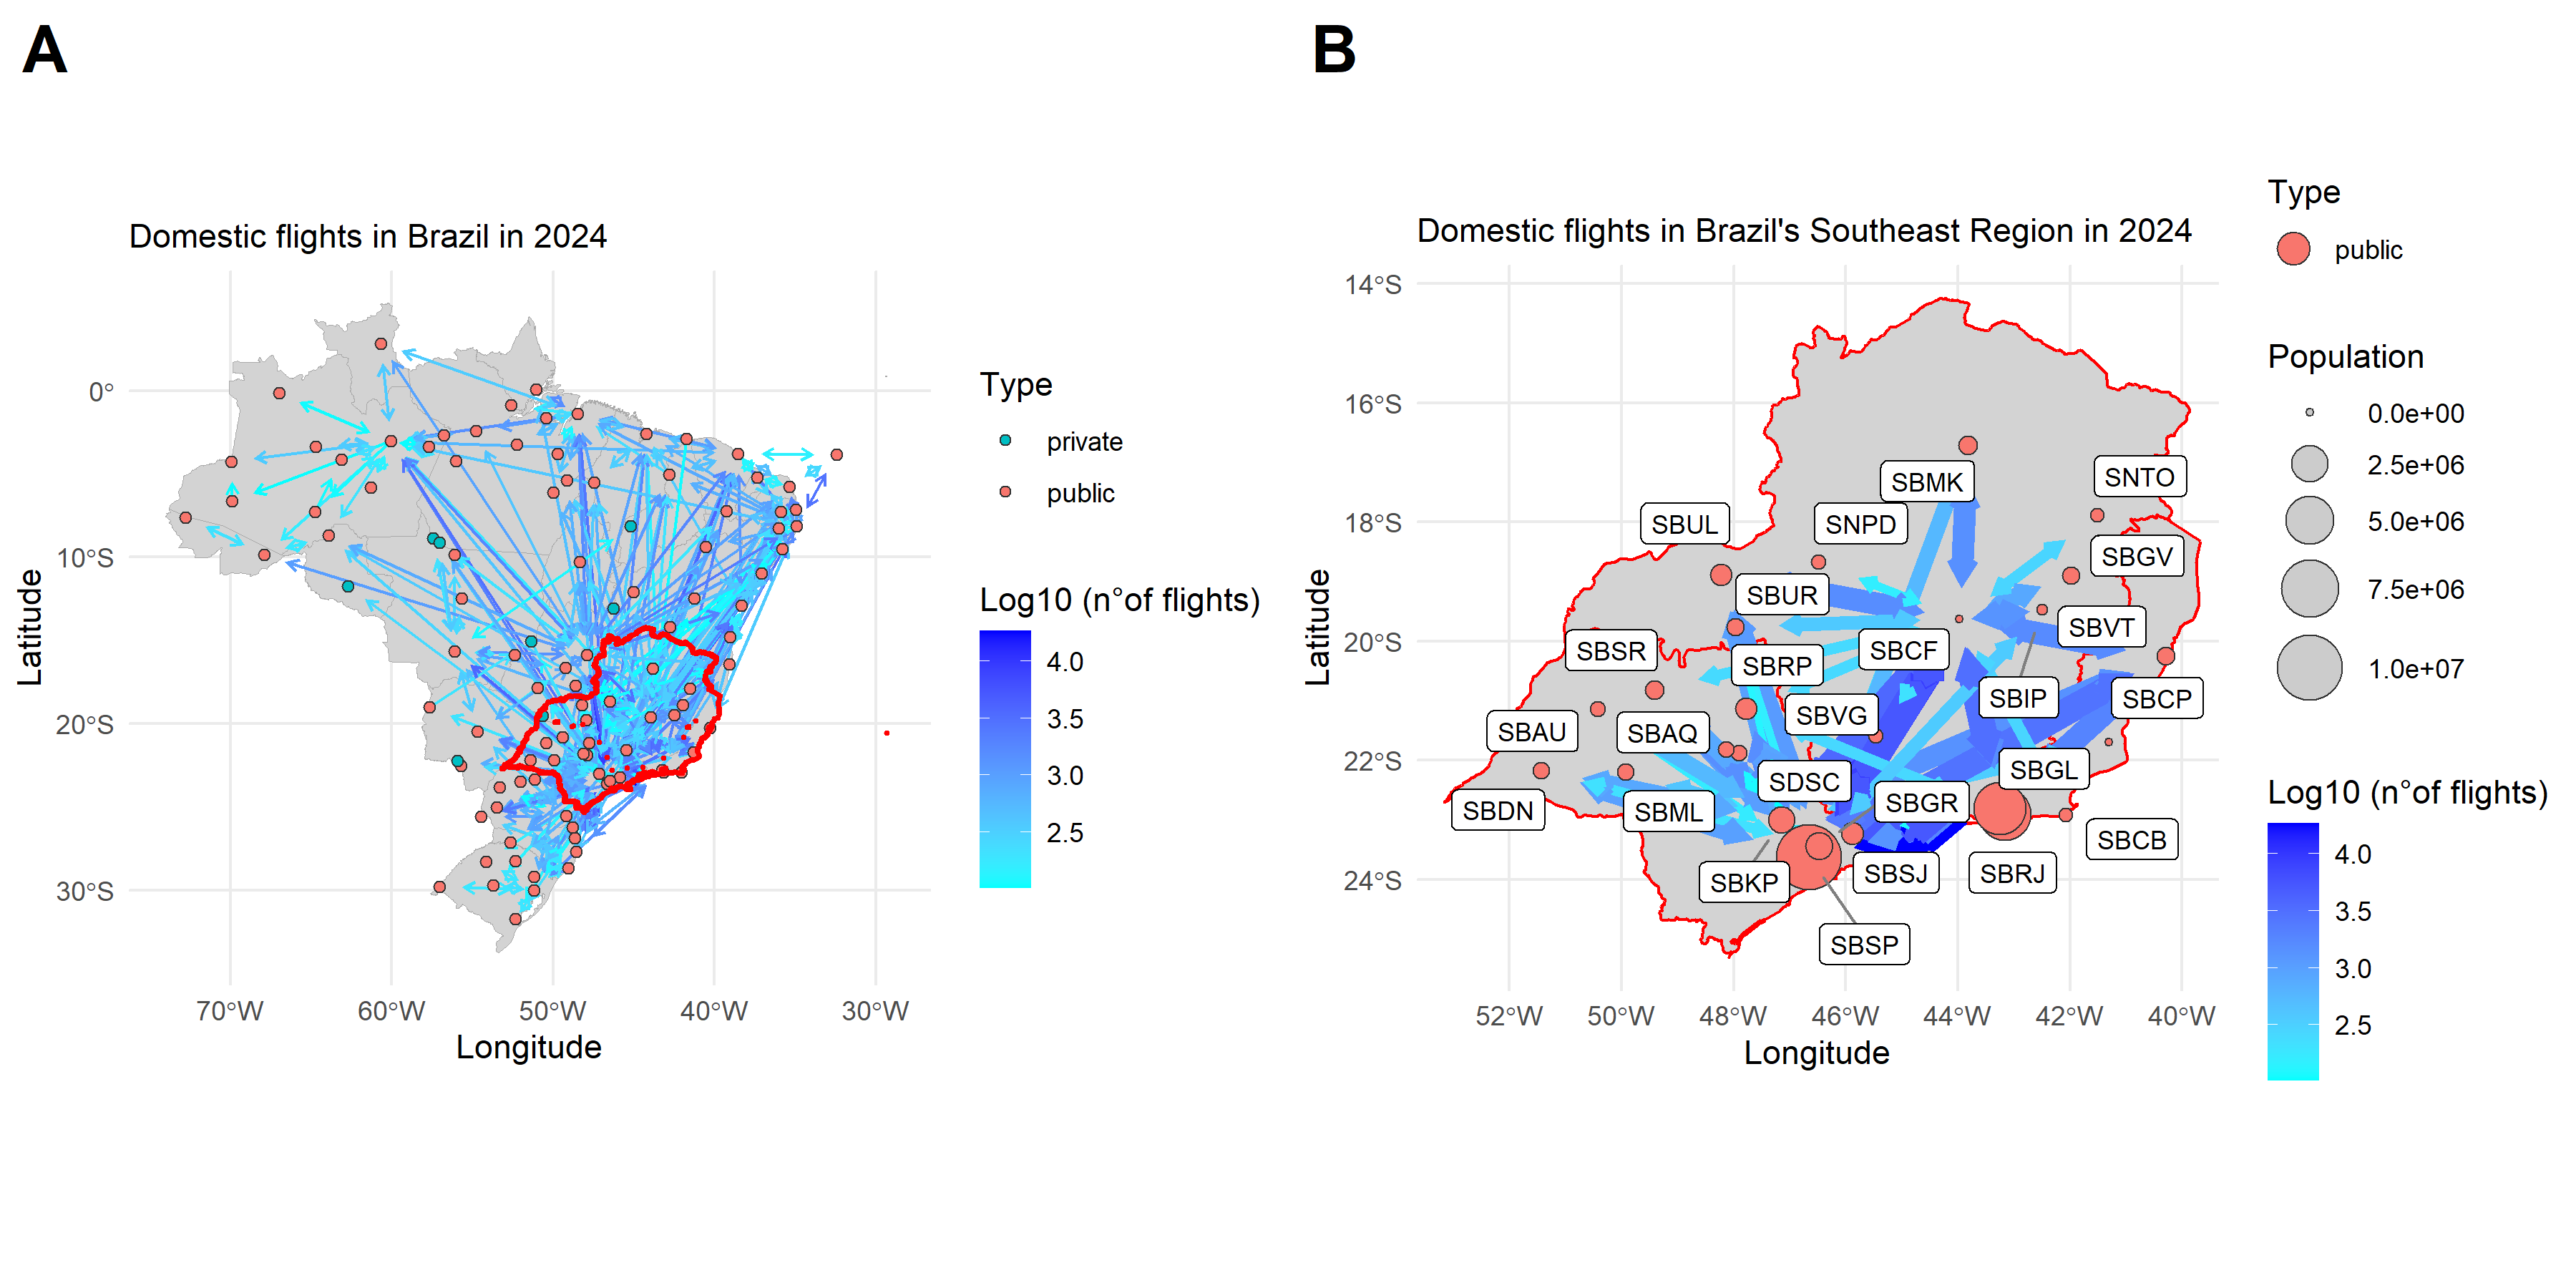
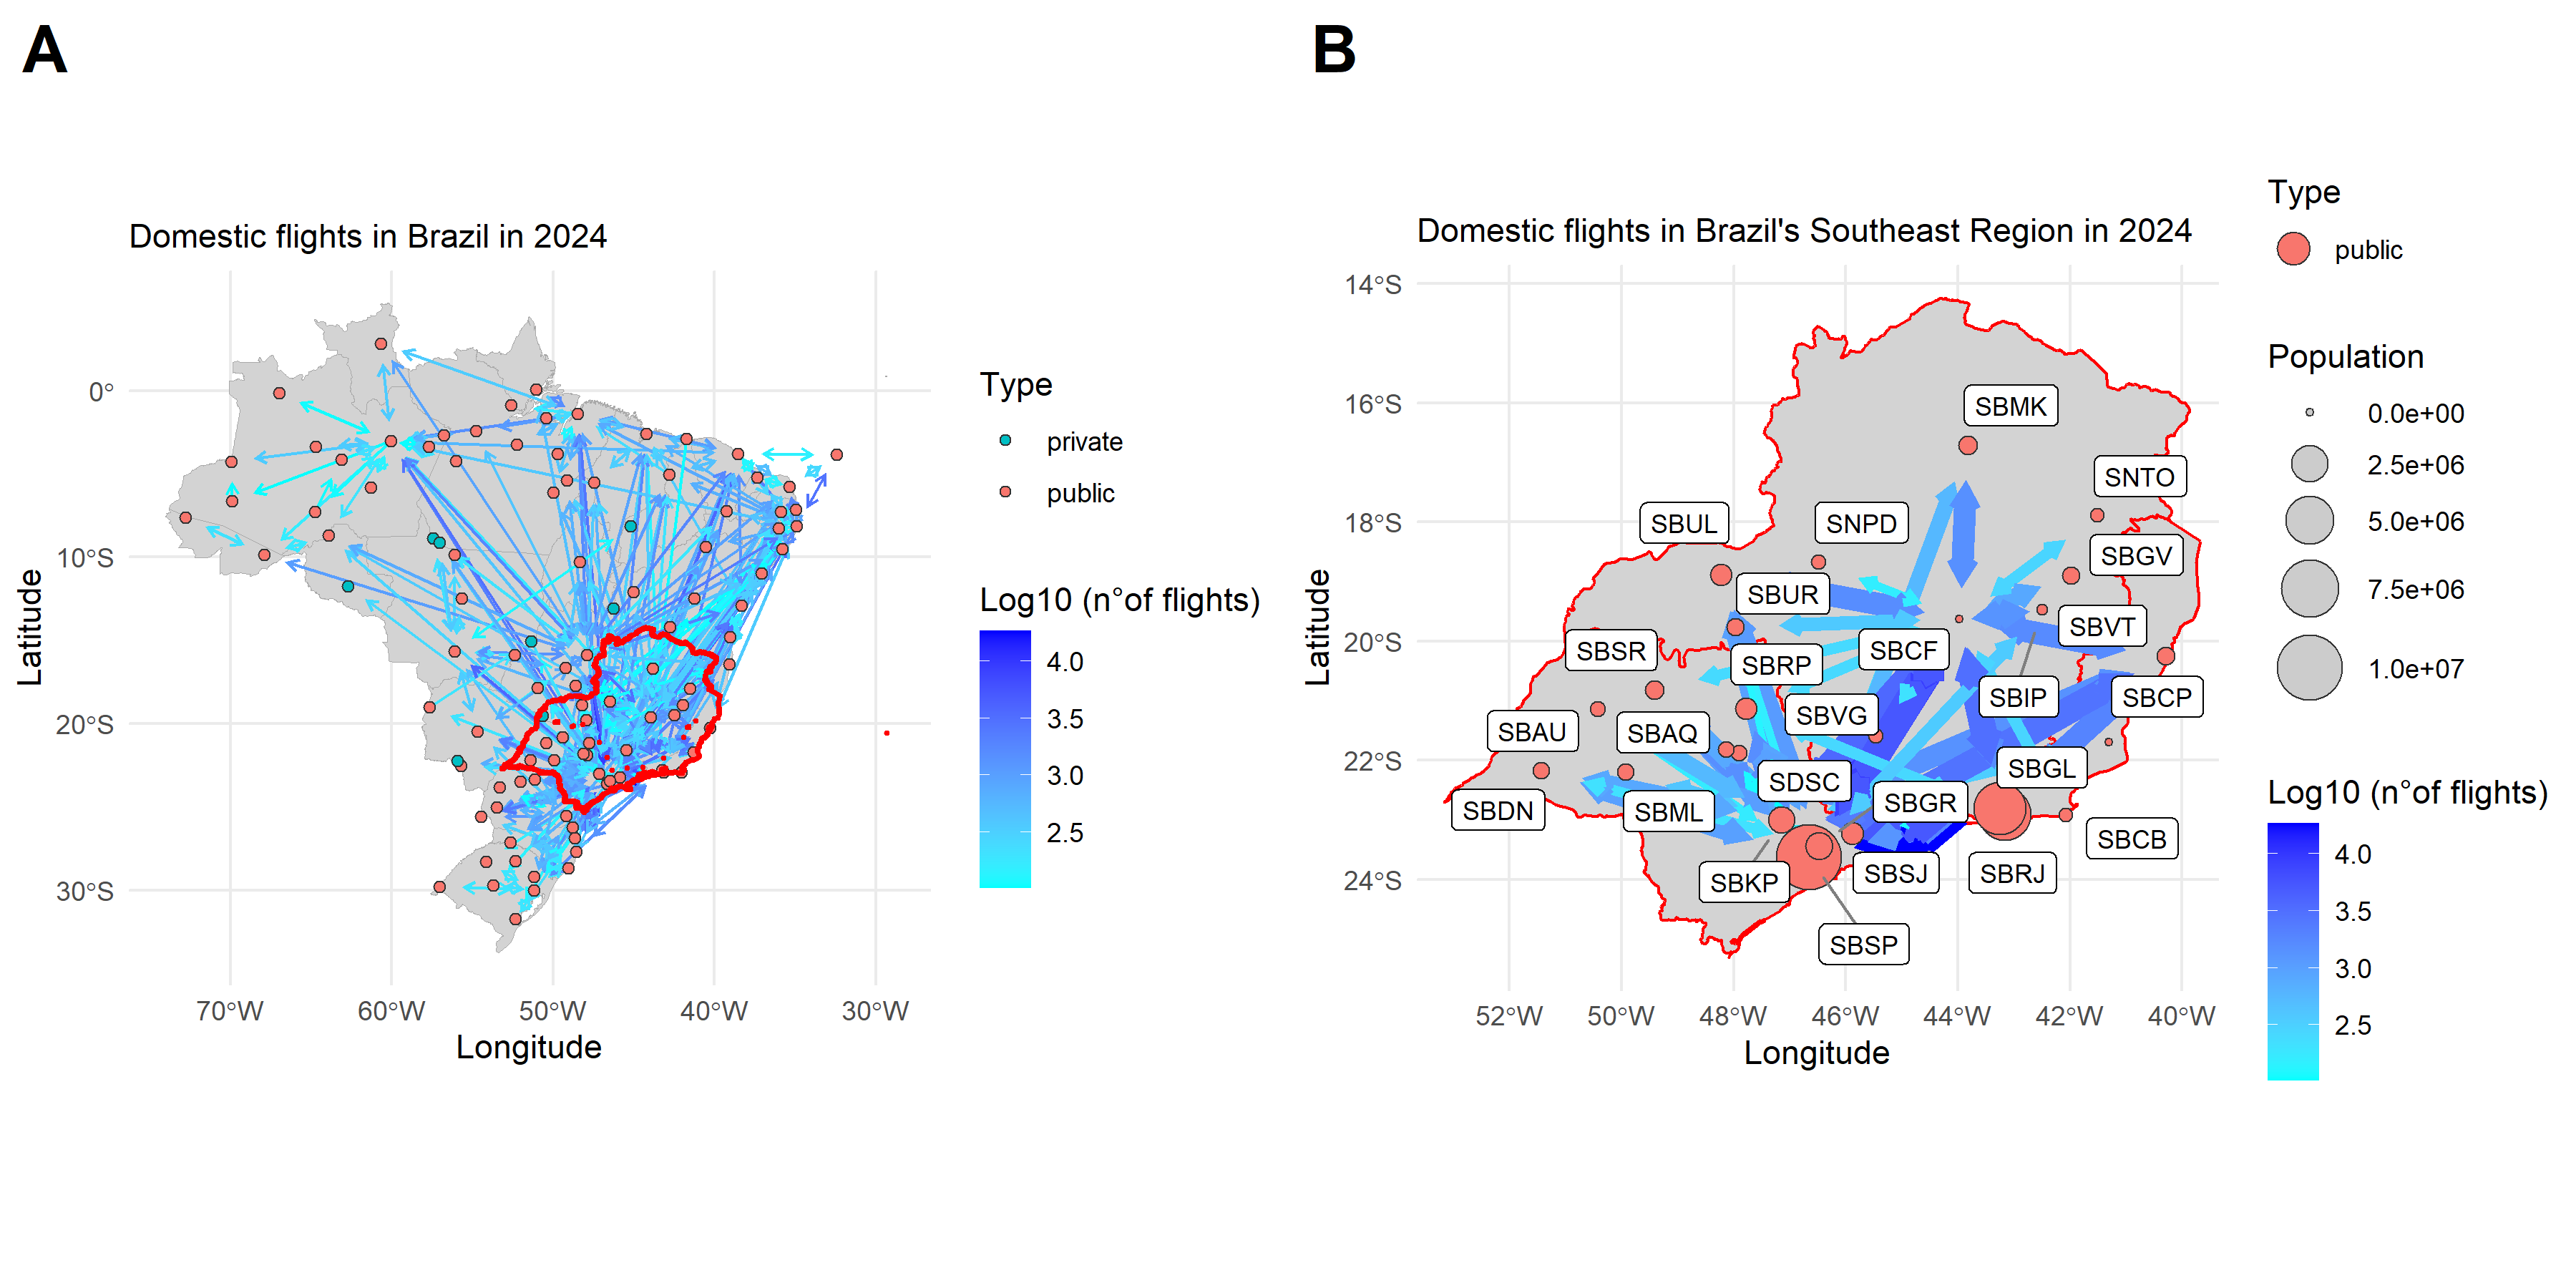
minor revision of vignettes

diff --git a/docs/PreprocessingAviationData.html b/docs/PreprocessingAviationData.html
@@ -1935,7 +1935,9 @@ during the year, and (ii) they are located in Brazil. Therefore, we can
 use <code>active_airports</code> to remove international flights from
 <code>flights_cf</code>. This task is performed by the helper function
 <code>only_from_airports()</code>.</p>
-<pre class="r"><code>flights_cf &lt;- only_from_airports(flights_cf,active_airports)</code></pre>
+<pre class="r"><code>flights_cf &lt;- only_from_airports(flights_cf,active_airports)
+
+colnames(flights_cf)[3] &lt;- &quot;weight&quot;</code></pre>
 </div>
 <div id="saving-preprocessed-data" class="section level2">
 <h2>Saving Preprocessed data</h2>
@@ -2046,26 +2048,29 @@ tools::resaveRdaFiles(paths = &quot;sf_SoutheastFlights.RData&quot;)</code></pre
 #&gt; [1] stats     graphics  grDevices utils     datasets  methods   base     
 #&gt; 
 #&gt; other attached packages:
-#&gt;  [1] ggrepel_0.9.8                 igraph_2.3.3                  RGraphSpace_1.4.4            
-#&gt;  [4] rnaturalearthhires_1.0.0.9000 rnaturalearth_1.2.0           sf_1.1-1                     
-#&gt;  [7] dplyr_1.2.1                   airportr_0.1.3                ggplot2_4.0.3                
-#&gt; [10] data.table_1.18.4             flightsbr_1.1.1              
+#&gt;  [1] maps_3.4.3                    ggpubr_1.0.0                  ggrepel_0.9.8                
+#&gt;  [4] igraph_2.3.3                  RGraphSpace_1.4.4             rnaturalearthhires_1.0.0.9000
+#&gt;  [7] rnaturalearth_1.2.0           sf_1.1-1                      dplyr_1.2.1                  
+#&gt; [10] airportr_0.1.3                ggplot2_4.0.3                 data.table_1.18.4            
+#&gt; [13] flightsbr_1.1.1              
 #&gt; 
 #&gt; loaded via a namespace (and not attached):
-#&gt;  [1] beeswarm_0.4.0     gtable_0.3.6       xfun_0.60          bslib_0.11.0       remotes_2.5.0     
-#&gt;  [6] lattice_0.22-9     vctrs_0.7.3        tools_4.6.1        generics_0.1.4     curl_7.1.0        
-#&gt; [11] tibble_3.3.1       proxy_0.4-29       pkgconfig_2.0.3    Matrix_1.7-5       KernSmooth_2.23-26
-#&gt; [16] RColorBrewer_1.1-3 S7_0.2.2           lifecycle_1.0.5    compiler_4.6.1     farver_2.1.2      
-#&gt; [21] parzer_0.4.4       stringr_1.6.0      janitor_2.2.1      snakecase_0.11.1   vipor_0.4.7       
-#&gt; [26] htmltools_0.5.9    class_7.3-23       sass_0.4.10        yaml_2.3.12        tidyr_1.3.2       
-#&gt; [31] pillar_1.11.1      jquerylib_0.1.4    classInt_0.4-11    cachem_1.1.0       tidyselect_1.2.1  
-#&gt; [36] rvest_1.0.5        digest_0.6.39      stringi_1.8.7      purrr_1.2.2        labeling_0.4.3    
-#&gt; [41] fastmap_1.2.0      grid_4.6.1         archive_1.1.13     cli_3.6.6          magrittr_2.0.5    
-#&gt; [46] tidygraph_1.3.1    e1071_1.7-17       withr_3.0.3        scales_1.4.0       ggbeeswarm_0.7.3  
-#&gt; [51] lubridate_1.9.5    timechange_0.4.0   rmarkdown_2.31     httr_1.4.8         otel_0.2.0        
-#&gt; [56] evaluate_1.0.5     ggrastr_1.0.2      knitr_1.51         rlang_1.3.0        Rcpp_1.1.2        
-#&gt; [61] glue_1.8.1         DBI_1.3.0          selectr_0.6-0      xml2_1.6.0         jsonlite_2.0.0    
-#&gt; [66] R6_2.6.1           fs_2.1.0           units_1.0-1</code></pre>
+#&gt;  [1] tidyselect_1.2.1   vipor_0.4.7        farver_2.1.2       S7_0.2.2           fastmap_1.2.0     
+#&gt;  [6] janitor_2.2.1      digest_0.6.39      timechange_0.4.0   lifecycle_1.0.5    magrittr_2.0.5    
+#&gt; [11] compiler_4.6.1     rlang_1.3.0        sass_0.4.10        tools_4.6.1        yaml_2.3.12       
+#&gt; [16] knitr_1.51         ggsignif_0.6.4     labeling_0.4.3     classInt_0.4-11    curl_7.1.0        
+#&gt; [21] xml2_1.6.0         RColorBrewer_1.1-3 abind_1.4-8        KernSmooth_2.23-26 withr_3.0.3       
+#&gt; [26] purrr_1.2.2        grid_4.6.1         e1071_1.7-17       scales_1.4.0       cli_3.6.6         
+#&gt; [31] rmarkdown_2.31     generics_0.1.4     remotes_2.5.0      otel_0.2.0         httr_1.4.8        
+#&gt; [36] DBI_1.3.0          ggbeeswarm_0.7.3   cachem_1.1.0       proxy_0.4-29       stringr_1.6.0     
+#&gt; [41] rvest_1.0.5        selectr_0.6-0      s2_1.1.11          ggrastr_1.0.2      vctrs_0.7.3       
+#&gt; [46] Matrix_1.7-5       jsonlite_2.0.0     carData_3.0-6      car_3.1-5          rstatix_1.0.0     
+#&gt; [51] Formula_1.2-5      archive_1.1.13     beeswarm_0.4.0     jquerylib_0.1.4    tidyr_1.3.2       
+#&gt; [56] units_1.0-1        glue_1.8.1         cowplot_1.2.0      lubridate_1.9.5    stringi_1.8.7     
+#&gt; [61] gtable_0.3.6       tibble_3.3.1       pillar_1.11.1      parzer_0.4.4       htmltools_0.5.9   
+#&gt; [66] R6_2.6.1           wk_0.9.5           tidygraph_1.3.1    evaluate_1.0.5     lattice_0.22-9    
+#&gt; [71] backports_1.5.1    broom_1.0.13       snakecase_0.11.1   bslib_0.11.0       class_7.3-23      
+#&gt; [76] Rcpp_1.1.2         xfun_0.60          fs_2.1.0           pkgconfig_2.0.3</code></pre>
 </div>
 <div id="references" class="section level1 unnumbered">
 <h1 class="unnumbered">References</h1>

diff --git a/README.md b/README.md
@@ -6,7 +6,7 @@ Flávio Gabriel Carazza-Kessler, Sysbiolab Team
 
 # Summary
 
-Here is performed the preprocessment of the data used in the RGraphSpace vignette, "Using RGraphSpace for spatial data analysis".
+Here is performed the preprocessment of the data used in the RGraphSpace vignette, [Using RGraphSpace for spatial data analysis](https://flaviogckessler.github.io/PreprocessingAviationData/Using_RgraphSpace_SpatialData.html).
 
 Please access the full preprocessment workflow: [Preprocessment Aviation Data](https://flaviogckessler.github.io/PreprocessingAviationData/PreprocessingAviationData.html)
 